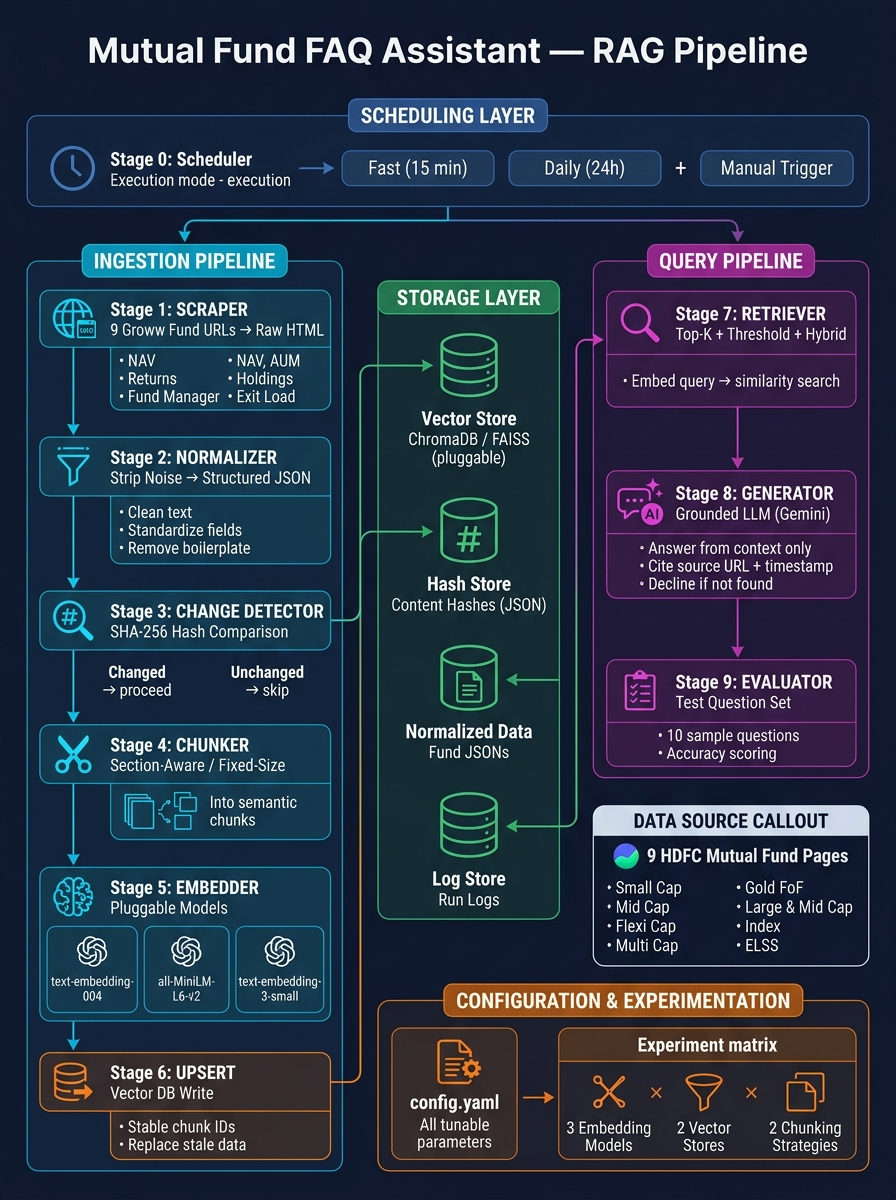
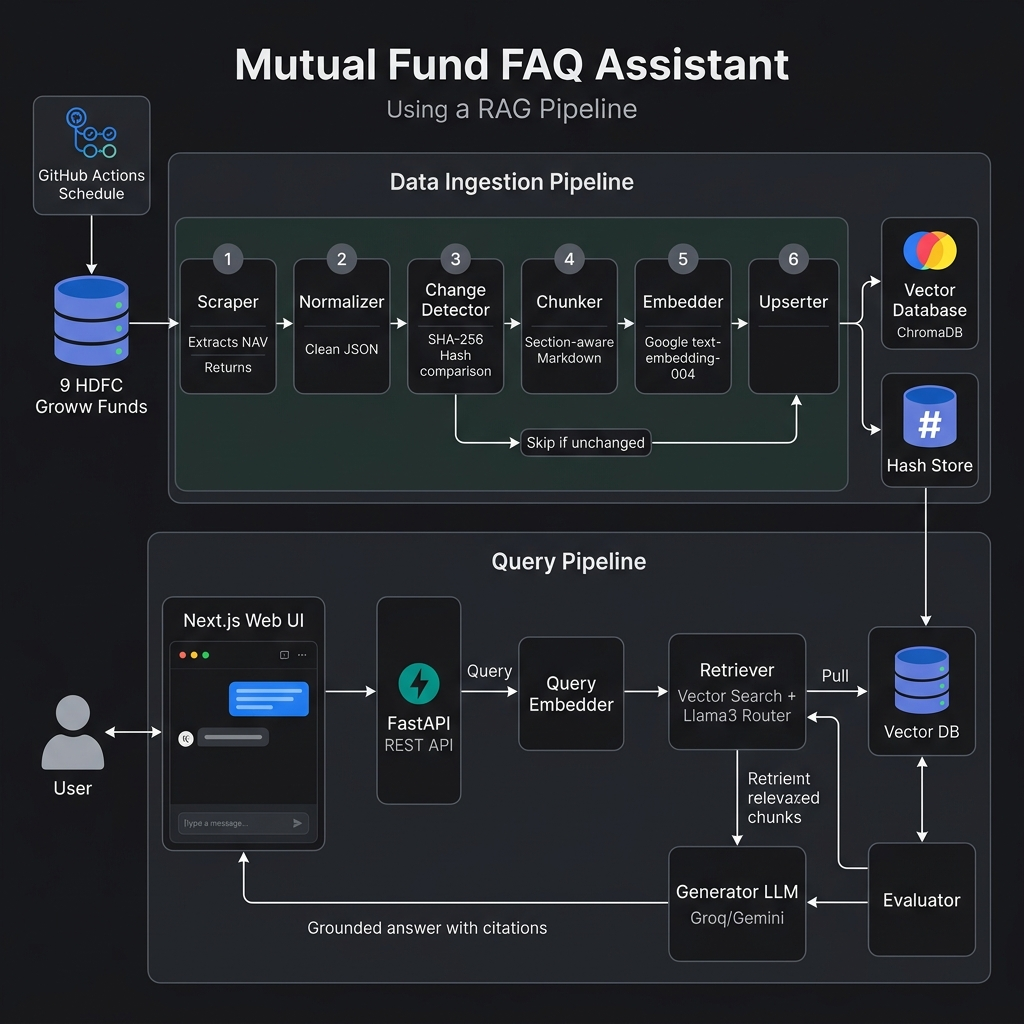
docs: update architecture and implementation plan with Web UI details and refined architecture diagram

diff --git a/docs/Architecture.md b/docs/Architecture.md
@@ -8,7 +8,9 @@
 
 ## System Architecture — Visual Overview
 
-![RAG Pipeline Architecture — End-to-end system diagram showing all 10 stages: Scheduler, Scraper, Normalizer, Change Detector, Chunker, Embedder, Upserter, Retriever, Generator, and Evaluator, along with the Storage Layer, Data Sources, and Configuration & Experimentation framework.](d:/GenAI/Practice/RAG_UC/docs/rag_pipeline_architecture.jpg)
+> **Note:** The original static architectural diagram (`rag_pipeline_architecture.jpg`) has been deprecated in favor of the dynamic Mermaid diagram below, which accurately reflects the latest implementation updates (such as GitHub Actions scheduling, the correct 9 funds, and current embedding options).
+
+Please see [Section 2: High-Level System Diagram](#2-high-level-system-diagram) below.
 
 ---
 
@@ -42,7 +44,7 @@ The system is a **local, single-user RAG pipeline** built for learning. It is co
 | Path | Trigger | Purpose |
 |------|---------|---------|
 | **Ingestion Pipeline** | GitHub Actions (cron/manual) | Scrape → Normalize → Detect Changes → Chunk → Embed → Upsert |
-| **Query Pipeline** | User question (interactive) | Embed Query → Retrieve → Generate → Respond |
+| **Query Pipeline** | User question (interactive/Web UI) | Web UI → API → Embed Query → Retrieve → Generate → Respond |
 
 Both paths are orchestrated by a lightweight **Pipeline Orchestrator** that manages configuration, logging, and component wiring.
 
@@ -63,38 +65,54 @@ Both paths are orchestrated by a lightweight **Pipeline Orchestrator** that mana
 ```mermaid
 graph TB
     subgraph Scheduling["⏰ Scheduling Layer"]
-        SCHED["GitHub Actions<br/>(cron / workflow_dispatch)"]
+        SCHED["GitHub Actions<br/>(cron: 0 */12 * * * / manual)"]
+    end
+
+    subgraph DataSources["🌐 Data Source: 9 HDFC Groww Funds"]
+        F1["Small Cap"]
+        F2["Mid Cap"]
+        F3["Flexi Cap"]
+        F4["Multi Cap"]
+        F5["Gold FoF"]
+        F6["Large & Mid Cap"]
+        F7["Index"]
+        F8["ELSS Tax Saver"]
+        F9["Large Cap"]
     end
 
     subgraph Ingestion["📥 Ingestion Pipeline"]
-        SCRAPE["🌐 Scraper<br/>9 Groww URLs"]
-        NORM["🧹 Normalizer<br/>Clean → Structured JSON"]
-        CD["🔍 Change Detector<br/>Hash comparison"]
-        CHUNK["✂ Chunker<br/>Section-aware / Fixed-size"]
-        EMBED_I["🧠 Embedder<br/>(pluggable model)"]
-        UPSERT["💾 Upserter<br/>Vector DB write"]
+        SCRAPE["Stage 1: Scraper<br/>Extracts: NAV, Returns, AUM,<br/>Holdings, Exit Load, Manager"]
+        NORM["Stage 2: Normalizer<br/>Clean → Structured JSON"]
+        CD["Stage 3: Change Detector<br/>Hash comparison"]
+        CHUNK["Stage 4: Chunker<br/>Section-aware / Fixed-size"]
+        EMBED_I["Stage 5: Embedder<br/>gemini / all-MiniLM / openai"]
+        UPSERT["Stage 6: Upserter<br/>Vector DB write"]
     end
 
     subgraph Storage["🗄 Storage Layer"]
-        VSTORE[("Vector Store<br/>(pluggable)")]
-        HASHDB[("Hash Store<br/>(JSON / SQLite)")]
-        RAWJSON[("Normalized JSON<br/>per fund")]
-        RAWDATA[("Raw Scraped Data<br/>per fund")]
-        LOGS[("Run Logs<br/>scheduler history")]
+        VSTORE[("Vector Store<br/>Chroma / FAISS")]
+        HASHDB[("Hash Store<br/>(JSON)")]
+        RAWJSON[("Normalized Data<br/>(JSON)")]
+        RAWDATA[("Raw Data<br/>(HTML/Text)")]
+        LOGS[("Log Store<br/>Run Logs")]
     end
 
     subgraph Query["❓ Query Pipeline"]
+        WEBUI["Web Frontend<br/>(Next.js)"]
+        API["REST API<br/>(FastAPI)"]
         INPUT["User Question"]
-        EMBED_Q["🧠 Query Embedder"]
-        RETRIEVE["🔎 Retriever<br/>top-k + threshold"]
-        GENERATE["💬 Generator<br/>Grounded LLM"]
-        RESPONSE["📝 Answer<br/>+ source + timestamp"]
+        EMBED_Q["Query Embedder"]
+        RETRIEVE["Stage 7: Retriever<br/>top-k + threshold + hybrid"]
+        GENERATE["Stage 8: Generator<br/>Grounded LLM (Groq/Gemini)"]
+        RESPONSE["Answer<br/>+ source + timestamp"]
+        EVAL["Stage 9: Evaluator<br/>Test Questions & Accuracy"]
     end
 
-    subgraph Config["⚙ Configuration"]
-        CONF["config.yaml<br/>models, DB, intervals,<br/>chunk params"]
+    subgraph Config["⚙ Configuration & Experimentation"]
+        CONF["config.yaml<br/>Models, DB, Intervals, Chunk Params"]
     end
 
+    DataSources --> SCRAPE
     SCHED -->|triggers| SCRAPE
     SCRAPE --> NORM --> CD
     CD -->|changed sections| CHUNK
@@ -105,9 +123,12 @@ graph TB
     CHUNK --> EMBED_I --> UPSERT
     UPSERT <--> VSTORE
 
+    WEBUI <--> API
+    API <--> INPUT
     INPUT --> EMBED_Q --> RETRIEVE
     RETRIEVE <-->|query| VSTORE
     RETRIEVE --> GENERATE --> RESPONSE
+    RESPONSE -.-> EVAL
 
     CONF -.->|configures| SCHED
     CONF -.->|configures| SCRAPE
@@ -125,6 +146,7 @@ graph TB
     style Storage fill:#0f3460,stroke:#533483,color:#fff
     style Query fill:#533483,stroke:#e94560,color:#fff
     style Config fill:#2d4059,stroke:#ea5455,color:#fff
+    style DataSources fill:#2d4059,stroke:#e94560,color:#fff
     style SKIP fill:#2d4059,stroke:#ea5455,color:#fff
 ```
 
@@ -454,6 +476,19 @@ See [§10 Scheduler & Freshness Design](#10-scheduler--freshness-design) for det
 | **Input** | List of test questions with expected answer patterns / expected sources. |
 | **Output** | Evaluation report: per-question result (correct / incorrect / correctly declined), retrieval metrics (chunks retrieved, scores), and overall accuracy. |
 | **Scheduler verification** | Includes tests that re-ask questions after a scheduled refresh to confirm updated values propagate _(SC6)_. |
+
+---
+
+### 3.11 Web Frontend & API (`api` & `frontend`)
+
+> **Maps to:** FR5, L7
+
+| Aspect | Detail |
+|--------|--------|
+| **Responsibility** | Provide a user-friendly, browser-based interface for interacting with the RAG pipeline. |
+| **Backend API (FastAPI)** | Wraps the query pipeline (Retriever + Generator) in a RESTful POST endpoint (`/api/query`). |
+| **Frontend UI (Next.js)** | A React-based chat interface. Displays user queries, LLM answers, and formatted citations. |
+| **Communication** | Frontend calls FastAPI via JSON HTTP requests. |
 
 ---
 
@@ -813,12 +848,16 @@ sequenceDiagram
 ```mermaid
 sequenceDiagram
     participant U as User
+    participant W as Web UI (Next.js)
+    participant A as API (FastAPI)
     participant R as Retriever
     participant E as Embedder
     participant VS as Vector Store
     participant G as Generator
 
-    U->>R: Natural language question
+    U->>W: Types question in chat
+    W->>A: POST /api/query {question}
+    A->>R: Process question
     R->>E: Embed question
     E-->>R: Query vector
     R->>VS: Similarity search (top-k, threshold, filters)
@@ -827,11 +866,13 @@ sequenceDiagram
     alt Relevant chunks found
         R->>G: Question + retrieved chunks
         G->>G: Generate grounded answer
-        G-->>U: Answer + source_url + last_scraped_at
+        G-->>A: Answer + citations
     else No chunks above threshold
         R->>G: Question + empty context
-        G-->>U: "This information is not available in the indexed pages."
+        G-->>A: "This information is not available in the indexed pages."
     end
+    A-->>W: JSON Response
+    W-->>U: Displays answer + citations
 ```
 
 ---

diff --git a/docs/Implementation-Plan.md b/docs/Implementation-Plan.md
@@ -302,6 +302,39 @@ python-dotenv>=1.0.0
 
 ---
 
+## Phase 5.5 — Web Frontend (Next.js)
+
+> **Goal:** Expose the query pipeline via a REST API (FastAPI) and build a modern, mobile-first Web UI (Next.js) for end users.
+>
+> **Maps to:** FR5, L7
+
+### 5.5.1 Tasks — Backend API (FastAPI)
+
+| # | Task | Files | Details |
+|---|------|-------|---------|
+| 5.5.1.1 | **Create FastAPI App** | `src/api/app.py` | Initialize FastAPI app with CORS middleware. |
+| 5.5.1.2 | **Define Request/Response Models** | `src/api/models.py` | Pydantic models for `QueryRequest` (question string) and `QueryResponse` (answer, citations). |
+| 5.5.1.3 | **Implement Query Endpoint** | `src/api/routes.py` | POST `/api/query` that calls the Retriever and Generator and returns the response. |
+
+### 5.5.2 Tasks — Frontend (Next.js)
+
+| # | Task | Files | Details |
+|---|------|-------|---------|
+| 5.5.2.1 | **Initialize Next.js App** | `frontend/` | `npx create-next-app@latest frontend` with TypeScript, Tailwind CSS, App Router. |
+| 5.5.2.2 | **Build Chat UI Component** | `frontend/src/components/Chat.tsx` | A conversational interface with input field, message history, and loading states. |
+| 5.5.2.3 | **Implement API Integration** | `frontend/src/services/api.ts` | Fetch wrapper to call the FastAPI backend `/api/query` endpoint. |
+| 5.5.2.4 | **Display Citations** | `frontend/src/components/Citation.tsx` | Render source URLs and timestamps beautifully below the answers. |
+
+### 5.5.3 Milestone Checkpoint
+
+| ✅ Criterion | How to Verify |
+|-------------|---------------|
+| FastAPI runs and responds | `curl -X POST http://localhost:8000/api/query -d '{"question":"What is NAV?"}'` returns JSON. |
+| Next.js UI is accessible | Open `http://localhost:3000` in browser. |
+| End-to-end chat works | Ask a question in the UI, receive a grounded answer with citations. |
+
+---
+
 ## Phase 6 — Scheduler & Freshness
 
 > **Goal:** Automate the ingestion pipeline with a configurable scheduler and verify that updated data propagates to query answers.
